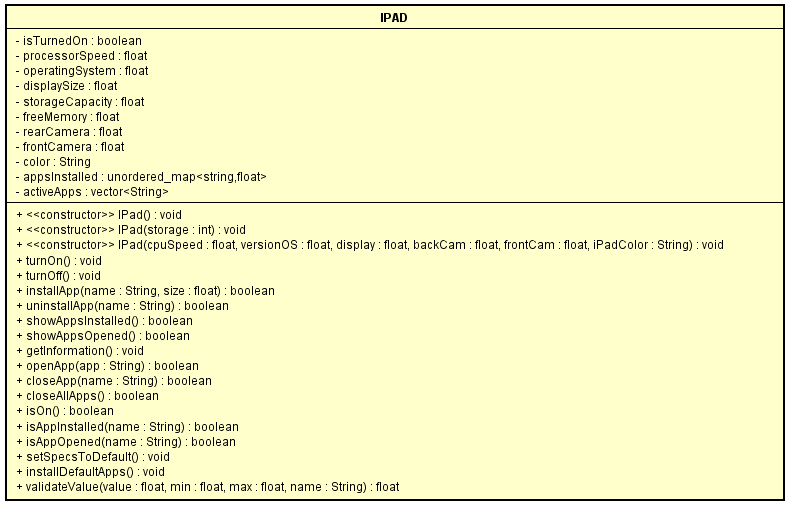
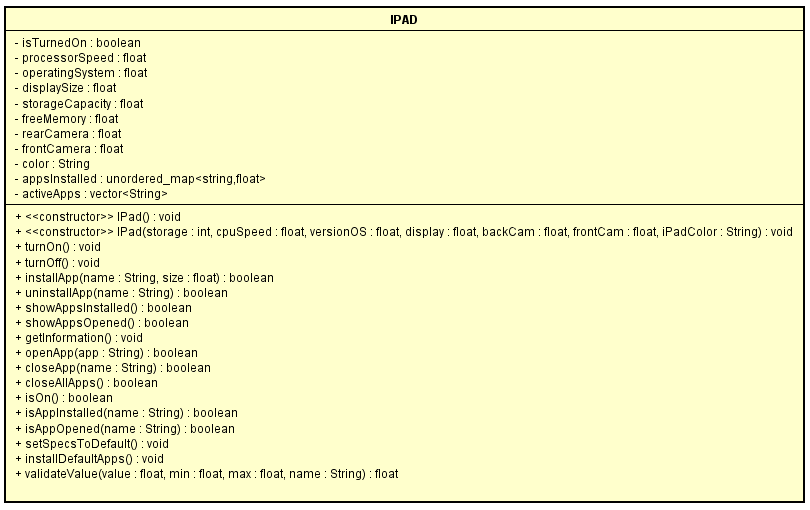
Projeto Atualizado
Diagrama UML atualizado.

Class IPad e main atualizados.

Changed region(s): [[0.0, 0.0, 1.0, 1.0]]

diff --git a/iPad/IPad.cpp b/iPad/IPad.cpp
@@ -9,16 +9,7 @@ IPad::IPad()
     installDefaultApps();
 }
 
-IPad::IPad(int storage)
-{
-    setSpecsToDefault();
-    
-    storageCapacity = validateValue(storage, 16, 128, "storage capacity");
-    
-    installDefaultApps();
-}
-
-IPad::IPad(float cpuSpeed, float versionOS, float display, int storage, float backCam, float frontCam, string iPadColor)
+IPad::IPad(int storage, float cpuSpeed, float versionOS, float display, float backCam, float frontCam, string iPadColor)
 {
     isTurnedOn = true;
     
@@ -363,26 +354,26 @@ void IPad::setSpecsToDefault()
     freeMemory = storageCapacity;
     rearCamera = 5;
     frontCamera = 1.2;
-    color =  "white";
+    color =  "WHITE";
 }
 
 void IPad::installDefaultApps()
 {
     // Installing Google
     appsInstalled["Google"] = 200;
-    freeMemory -= 0.2;
+    freeMemory -= 200/1000.0;
     
     // Installing Safari
     appsInstalled["Safari"] = 100;
-    freeMemory -= 0.1;
+    freeMemory -= 100/1000.0;
     
     // Installing Youtube
     appsInstalled["YouTube"] = 50;
-    freeMemory -= 0.05;
+    freeMemory -= 50/1000.0;
     
     // Installing iTunes
     appsInstalled["iTunes"] = 100;
-    freeMemory -= 0.01;
+    freeMemory -= 100/1000.0;
 }
 
 float IPad::validateValue(float value, float min, float max, string name)

diff --git a/iPad/IPad.h b/iPad/IPad.h
@@ -12,8 +12,7 @@ class IPad
 {
 public:
     IPad();
-    IPad(int storage);
-    IPad(float cpuSpeed, float versionOS, float display, int storage, float backCam, float frontCam, string iPadColor);
+    IPad(int storage, float cpuSpeed = 1, float versionOS = 9.2, float display = 7.9, float backCam = 5, float frontCam = 1.2, string iPadColor = "WHITE");
     ~IPad();
     
     void turnOn();

diff --git a/iPad/main.cpp b/iPad/main.cpp
@@ -12,7 +12,7 @@ void chooseAppToClose(IPad& iPad);
 
 int main(int argc, char **argv)
 {
-    IPad myiPad(1.4, 9, 7, 64, 5, 1.4, "white");
+    IPad myiPad(64);
     
     menu(myiPad);
     
